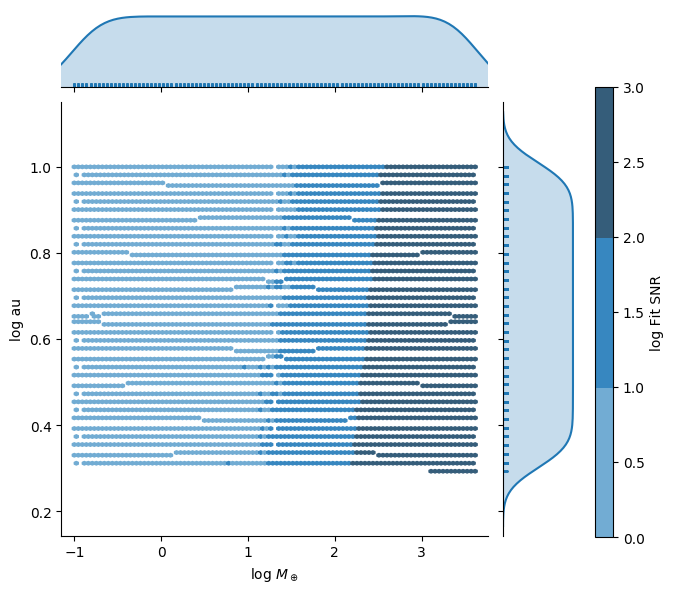
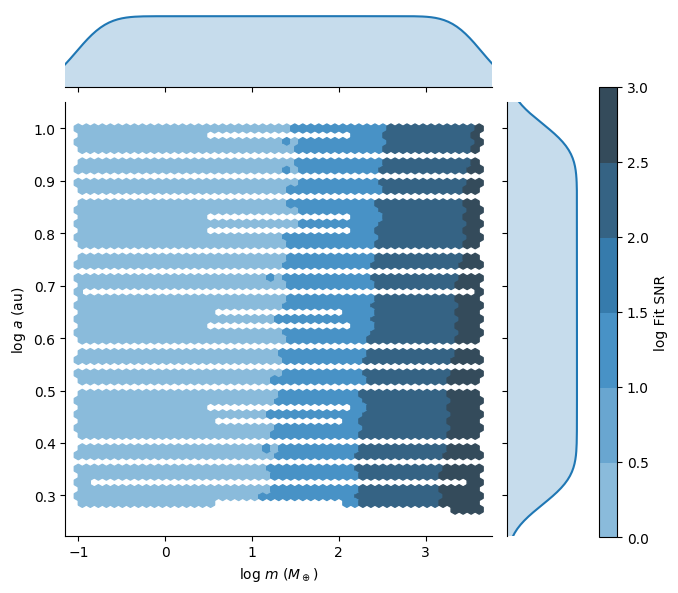
made some new figures

diff --git a/fit.py b/fit.py
@@ -1,17 +1,21 @@
 import numpy as np
+import astropy.units as u
 import classes
 
 dist = classes.Distribution('planets3_bottomup/')
 ms = np.round(np.logspace(np.log10(0.1), np.log10(13*u.Mjup.to('Mearth')),100),3)
 aas = np.round(np.logspace(np.log10(0.05), np.log10(10),100), 3)
 
-dist.fit(ms=ms, aas=aas[0:5])
-# dist.fit(ms=ms, aas=aas[5:10])
-# dist.fit(ms=ms, aas=aas[10:15])
-# dist.fit(ms=ms, aas=aas[15:20])
-# dist.fit(ms=ms, aas=aas[20:25])
-# dist.fit(ms=ms, aas=aas[25:30])
-# dist.fit(ms=ms, aas=aas[30:35])
-# dist.fit(ms=ms, aas=aas[35:40])
-# dist.fit(ms=ms, aas=aas[40:45])
-# dist.fit(ms=ms, aas=aas[45:50])
+#dist.fit(ms=ms, aas=aas[0:5])
+#dist.fit(ms=ms, aas=aas[5:10])
+#dist.fit(ms=ms, aas=aas[10:15])
+#dist.fit(ms=ms, aas=aas[15:20])
+#dist.fit(ms=ms, aas=aas[20:25])
+#dist.fit(ms=ms, aas=aas[25:30])
+#dist.fit(ms=ms, aas=aas[30:35])
+#dist.fit(ms=ms, aas=aas[35:40])
+#dist.fit(ms=ms, aas=aas[40:45])
+#dist.fit(ms=ms, aas=aas[45:50])
+#dist.fit(ms=ms, aas=aas[50:55])
+#dist.fit(ms=ms, aas=aas[55:60])
+dist.fit(ms=ms, aas=aas)

diff --git a/analyze.py b/analyze.py
@@ -4,8 +4,14 @@ import classes
 # dist = classes.Distribution('planets2/')
 # dist = classes.Distribution('../exo_project/planets3')
 
-dist = Distribution('../exo_project/planets3')
-dist.plot('intrinsic', save='figures/planets3_intrinsic')
-dist.plot('observed', save='figures/planets3_observed')
-dist.compare(save='figures/planets3_comparison')
-dist.correlations(save='figures/planets3_correlations')
+#dist = classes.Distribution('../exo_project/planets3')
+#dist.plot('intrinsic', save='figures/planets3_intrinsic')
+#dist.plot('observed', save='figures/planets3_observed')
+#dist.compare(save='figures/planets3_comparison')
+#dist.correlations(save='figures/planets3_correlations')
+
+dist = classes.Distribution('planets3_bottomup')
+dist.plot('intrinsic', save='figures/planets3_bottomup_intrinsic')
+dist.plot('observed', save='figures/planets3_bottomup_observed')
+dist.compare(save='figures/planets3_bottomup_comparison')
+dist.correlations(save='figures/planets3_bottomup_correlations')
